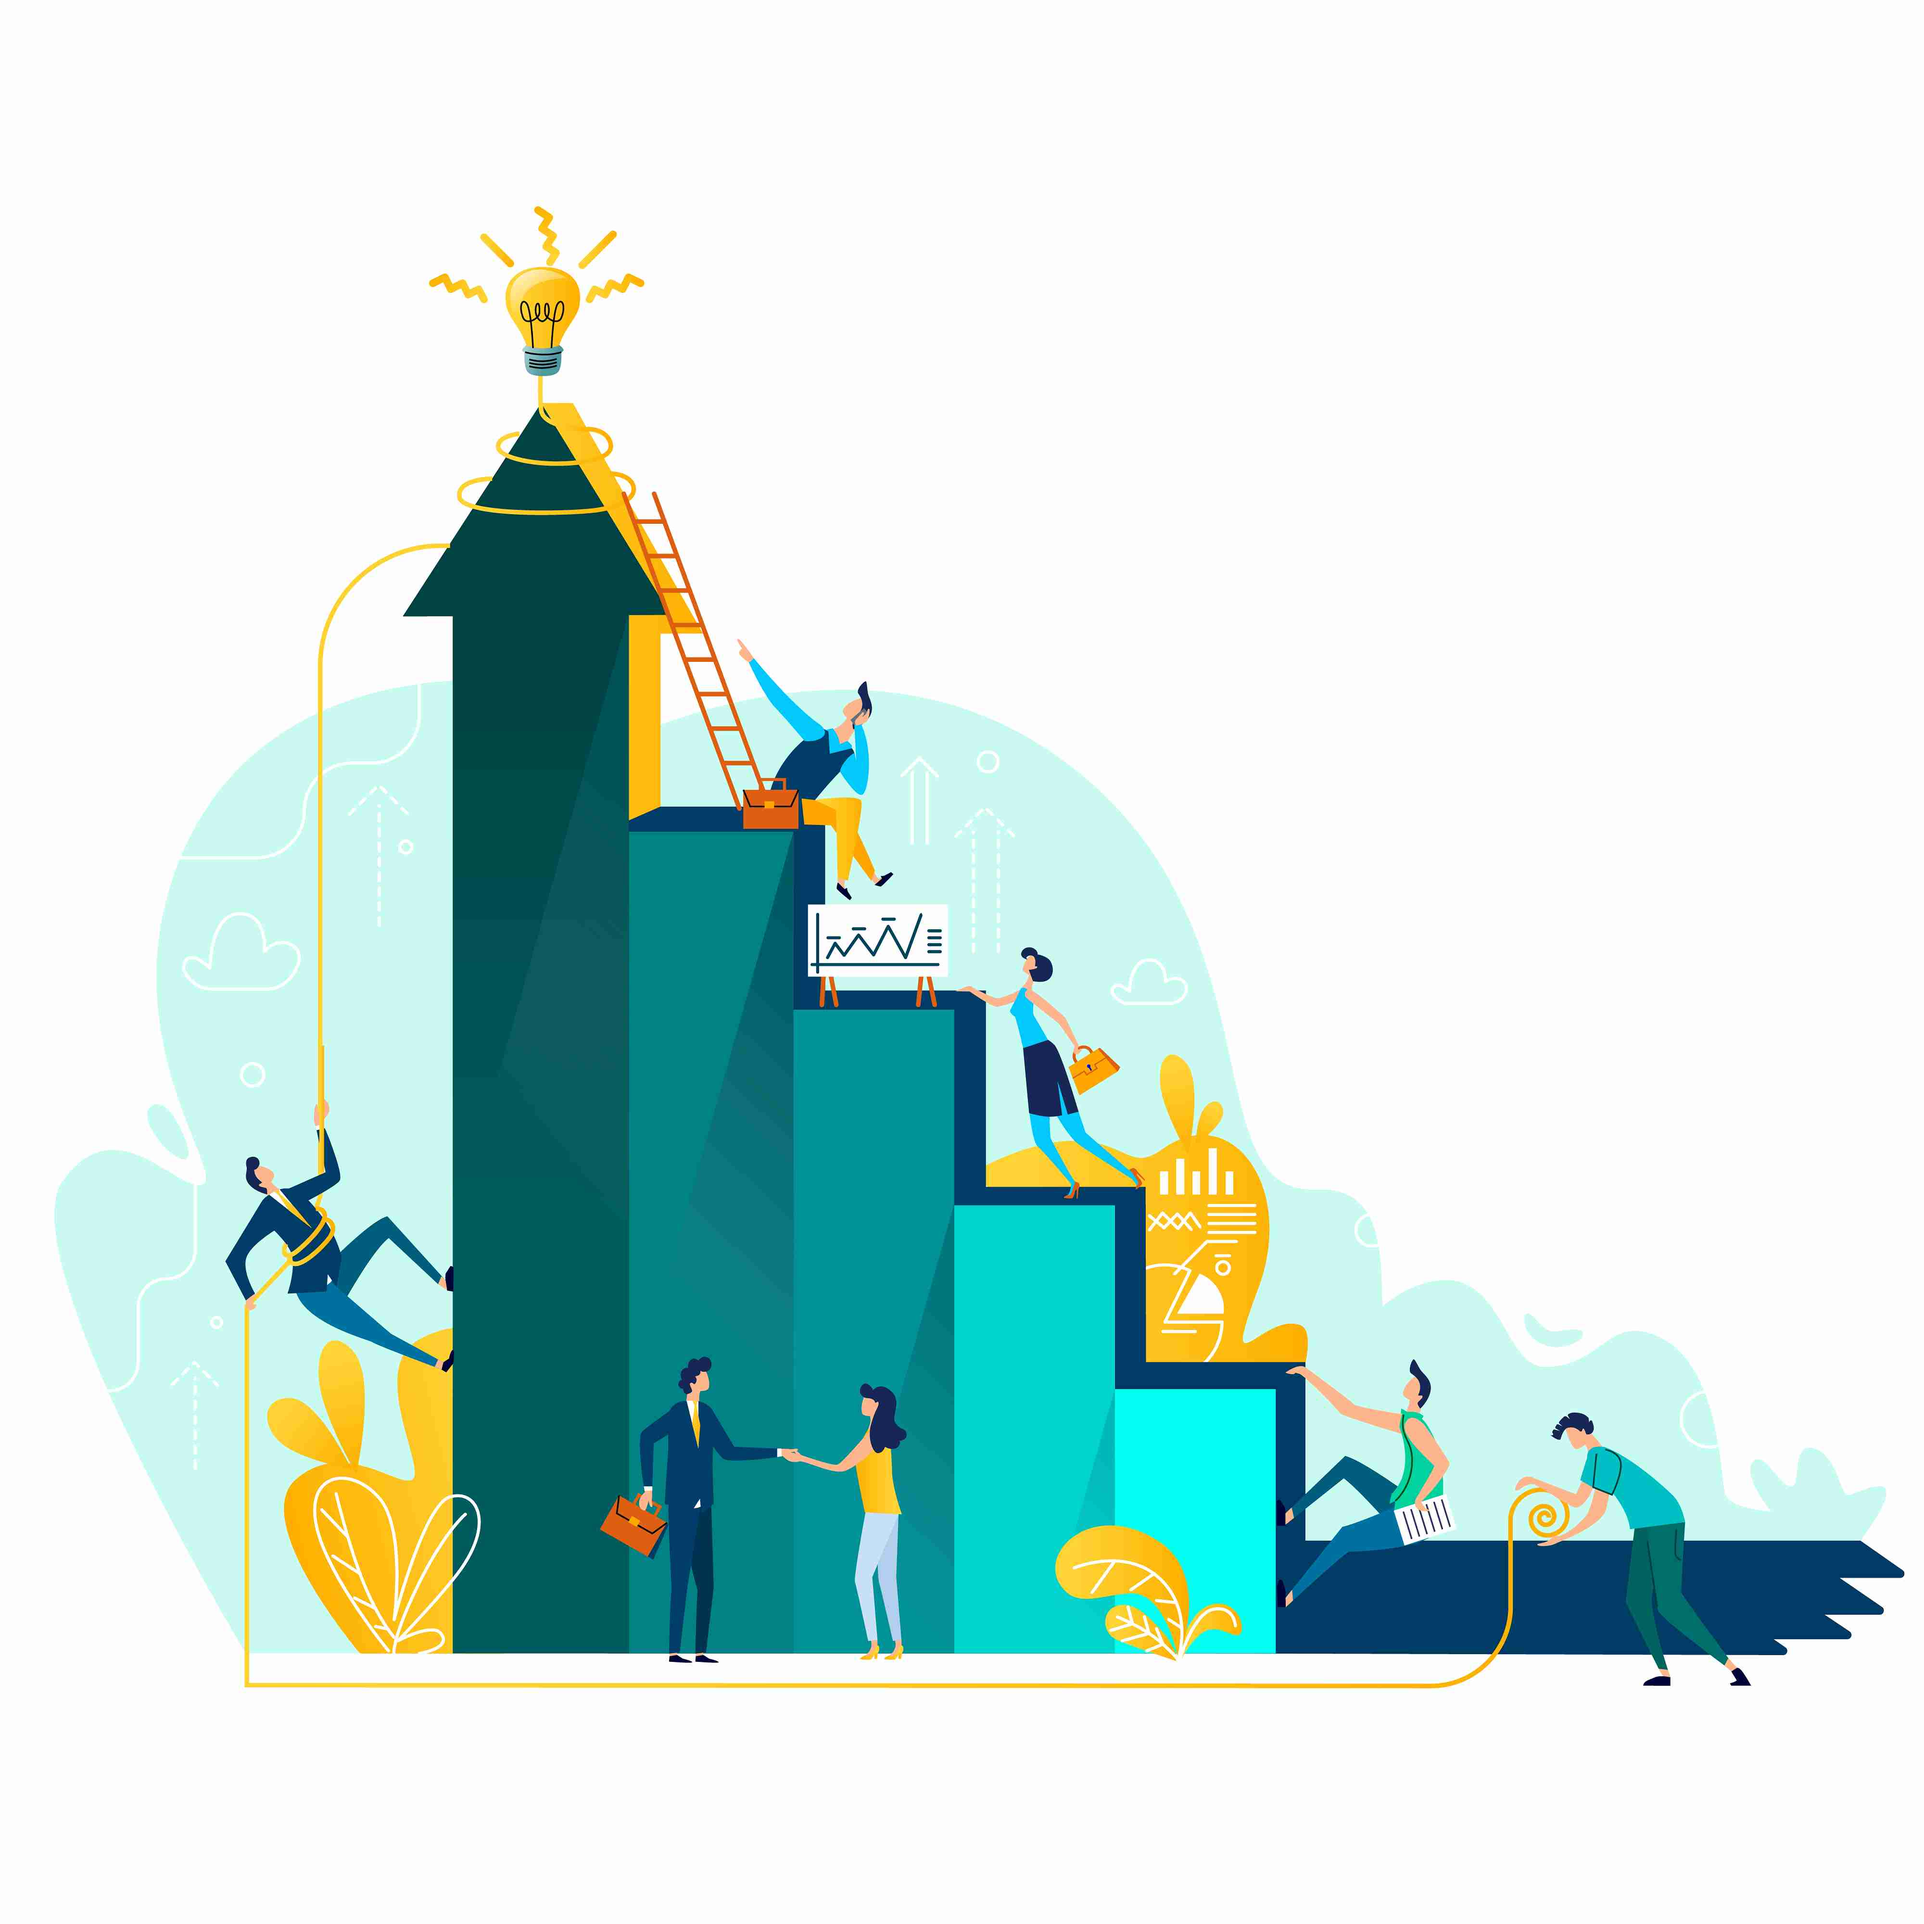
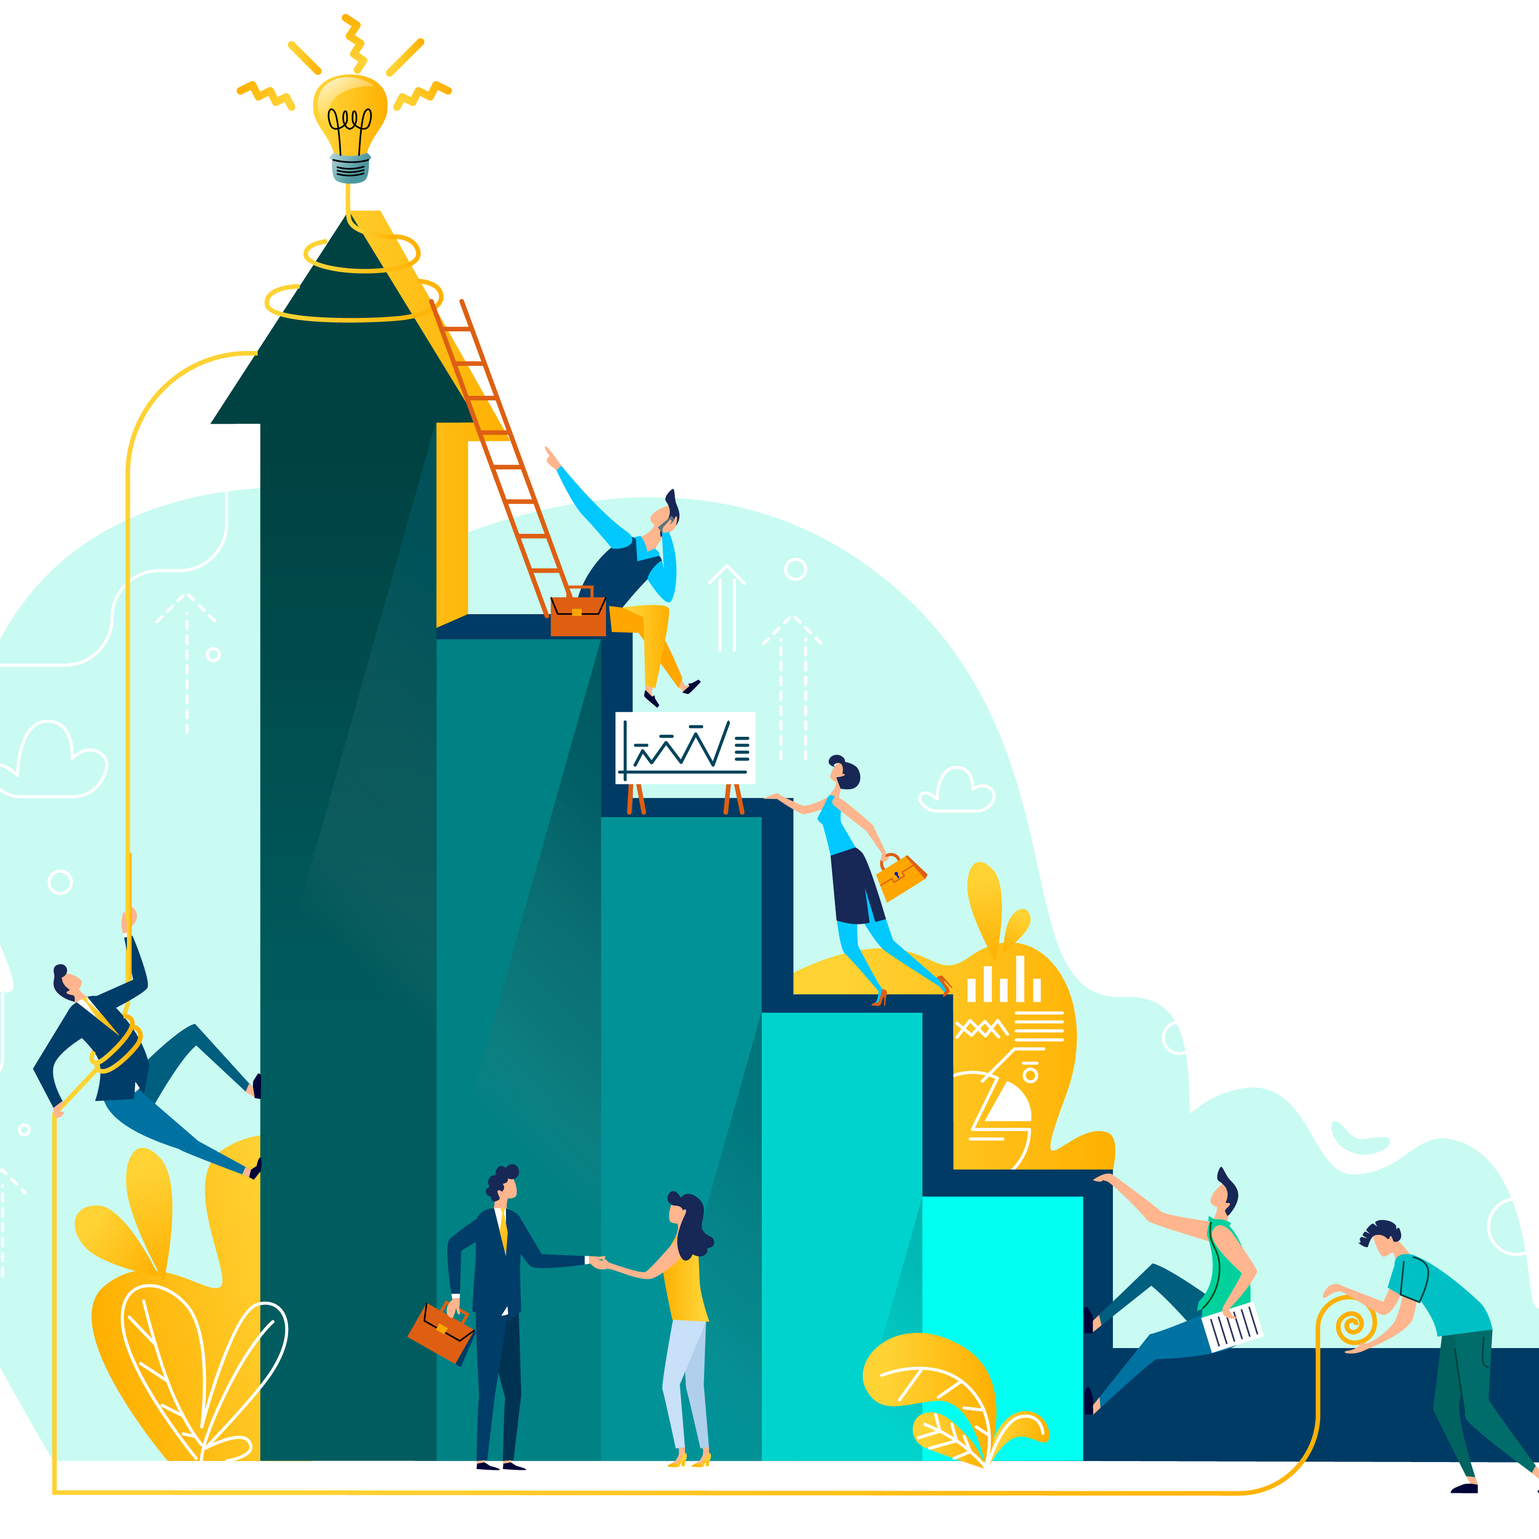
final changes

diff --git a/app/careers/page.tsx b/app/careers/page.tsx
@@ -288,42 +288,41 @@ export default function CareersPage() {
         {/* ================================================= */}
         {/* TEXT + SIDE IMAGE */}
         {/* ================================================= */}
-        <section className="grid lg:grid-cols-2 gap-16 items-center mb-28 mt-16 h-screen container-max dark:bg-[#0d1117]">
-          <div className="space-y-9">
-            <h1 className="text-3xl font-bold text-[#24292f] dark:text-[#f0f6fc]">
-              Discover Your Next Big Opportunity at Codriva
-            </h1>
+        <section className="grid lg:grid-cols-2 gap-12 items-center mb-20 mt-16 container-max dark:bg-[#0d1117]">
+  <div className="space-y-6">
+    <h1 className="text-3xl font-bold text-[#24292f] dark:text-[#f0f6fc]">
+      Discover Your Next Big Opportunity at Codriva
+    </h1>
 
-            <p className="text-lg text-[#656d76] dark:text-[#8b949e]">
-              At Codriva, we’re more than a technology company — we’re a hub of
-              innovation that empowers businesses across industries to grow,
-              scale, and transform. From FinTech and Healthcare to E-Commerce,
-              EdTech, Logistics, and Real Estate, our diverse domain expertise
-              allows our teams to work on impactful projects that shape the
-              future of digital experiences.
-            </p>
-            <p className="text-lg text-[#656d76] dark:text-[#8b949e]">
-              With a strong foundation in custom software development, cloud
-              solutions, UI/UX design, mobile app development, data analytics,
-              and emerging technologies like IoT and AI, we offer a dynamic
-              environment where talent thrives.
-            </p>
-            <p className="text-lg text-[#656d76] dark:text-[#8b949e]">
-              oin us and unlock your potential through continuous learning,
-              cross-functional collaboration, and a culture that values
-              innovation, ownership, and excellence.
-            </p>
-          </div>
+    <p className="text-lg text-[#656d76] dark:text-[#8b949e] leading-relaxed">
+      Codriva is a technology-driven environment where innovation, collaboration,
+      and learning are at the core. We work across industries like FinTech,
+      Healthcare, E-Commerce, EdTech, Logistics, and Real Estate—giving our teams
+      the opportunity to build impactful, real-world digital solutions.
+    </p>
 
-          <div className="relative w-full h-full rounded-xl overflow-hidden shadow-lg">
-            <Image
-              src="/assets/images/4667026_16.jpg"
-              alt="Career Opportunity"
-              fill
-              className="object-cover"
-            />
-          </div>
-        </section>
+    <p className="text-lg text-[#656d76] dark:text-[#8b949e] leading-relaxed">
+      With capabilities spanning custom software development, cloud engineering,
+      UI/UX design, mobile apps, data analytics, IoT, and AI, we empower people
+      to grow alongside cutting-edge technologies.
+    </p>
+
+    <p className="text-lg text-[#656d76] dark:text-[#8b949e] leading-relaxed">
+      Join us to elevate your career through continuous learning, mentorship,
+      and a culture that values ownership, innovation, and excellence.
+    </p>
+  </div>
+
+  <div className="relative w-full h-[520px] rounded-xl overflow-hidden shadow-lg">
+    <Image
+      src="/assets/images/4667026_16.jpg"
+      alt="Career Opportunity"
+      fill
+      className="object-cover"
+    />
+  </div>
+</section>
+
 
         {/* ================================================= */}
         {/* ALTERNATING VALUES SECTION (FULL WIDTH IMAGES) */}
@@ -452,7 +451,7 @@ export default function CareersPage() {
         {/* ================================================= */}
         {/* APPLICATION FORM — UNCHANGED */}
         {/* ================================================= */}
-      <CareersApplicationForm presetPosition={"Other / Not Listed"}/>
+      <CareersApplicationForm />
       </div>
     </div>
   );

diff --git a/components/OpenPositions.tsx b/components/OpenPositions.tsx
@@ -278,7 +278,7 @@ export default function JobsWithFilters() {
     "UI/UX Design",
   ];
 
-  const locationFilters = ["Noida, Sector 62 (WFO)", "Gurgaon", "Remote"];
+  const locationFilters = ["Noida, Sector 62 (WFO)", "Remote"];
   const experienceFilters = [
     { label: "0-2", min: 0, max: 2 },
     { label: "3-5", min: 3, max: 5 },
@@ -436,7 +436,7 @@ export default function JobsWithFilters() {
             Showing {filteredJobs.length} positions
           </p>
 
-          <div className="space-y-6">
+          <div className="space-y-3">
             {filteredJobs.map((job, i) => (
               <button
                 key={i}
@@ -453,9 +453,22 @@ export default function JobsWithFilters() {
             ))}
 
             {filteredJobs.length === 0 && (
-              <p className="text-center text-gray-500 dark:text-gray-400 py-10">
-                No matching roles found.
-              </p>
+              <div className="text-center text-gray-500 dark:text-gray-400 py-10 space-y-3">
+                <p className="text-lg font-medium text-[#24292f] dark:text-[#f0f6fc]">
+                  No openings for that
+                </p>
+
+                <p className="text-sm text-[#656d76] dark:text-[#8b949e]">
+                  Apply anyway and we will contact you if a position opens up.
+                </p>
+
+                <Link
+                  href="#apply"
+                  className="text-blue-600 dark:text-blue-400 font-semibold underline hover:opacity-80 transition"
+                >
+                  Apply anyway
+                </Link>
+              </div>
             )}
           </div>
         </div>
@@ -466,7 +479,7 @@ export default function JobsWithFilters() {
       /* ---------------------------------------- */}
       {selectedJob && (
         <div className="fixed inset-0 bg-black/50 backdrop-blur-sm flex justify-center items-center z-50 p-4">
-          <div className="bg-white dark:bg-[#0d1117] w-full max-w-3xl rounded-2xl p-8 shadow-xl overflow-y-auto max-h-[90vh] relative">
+          <div className="modal-scroll bg-white dark:bg-[#0d1117] w-full max-w-3xl rounded-2xl p-8 shadow-xl overflow-y-auto max-h-[90vh] relative">
             <button
               onClick={() => setSelectedJob(null)}
               className="absolute top-4 right-4 text-gray-500 hover:text-gray-700 dark:hover:text-gray-300"
@@ -486,16 +499,19 @@ export default function JobsWithFilters() {
               Experience: {selectedJob.experience} years
             </p>
 
-            <Link
-  href="#"
-  className="btn-primary inline-block mb-6"
-  onClick={() => {
-    setSelectedJob({ ...selectedJob, apply: true });
-  }}
->
-  Apply Now
-</Link>
+           {/* APPLY BUTTON — hidden when form is open */}
+{!selectedJob.apply && (
+  <button
+    className="btn-primary inline-block mb-6"
+    onClick={() =>
+      setSelectedJob((prev: any) => ({ ...prev, apply: true }))
+    }
+  >
+    Apply Now
+  </button>
+)}
 
+{/* FORM WHEN APPLY IS CLICKED */}
 {selectedJob.apply && (
   <CareersApplicationForm
     presetPosition={selectedJob.title}

diff --git a/components/CareersApplicationForm.tsx b/components/CareersApplicationForm.tsx
@@ -159,13 +159,18 @@ export default function CareersApplicationForm({
     >
       {/* X Button */}
       {onClose && (
-        <button
-          onClick={onClose}
-          className="absolute top-4 right-4 text-gray-500 hover:text-gray-700 dark:text-gray-400 dark:hover:text-gray-300"
-        >
-          ✕
-        </button>
-      )}
+  <button
+    onClick={onClose}
+    className="
+      absolute top-4 right-4
+      text-gray-700 dark:text-gray-200
+      transition
+    "
+  >
+    <span className="text-xl font-bold leading-none">✕</span>
+  </button>
+)}
+
 
       <h2 className="text-3xl font-bold text-center mb-6 text-[#24292f] dark:text-[#f0f6fc]">
         Apply Now

diff --git a/app/globals.css b/app/globals.css
@@ -53,6 +53,13 @@
         font-weight: 600;
         line-height: 1.2;
     }
+    .modal-scroll {
+      scrollbar-width: none; /* Firefox */
+    }
+
+    .modal-scroll::-webkit-scrollbar {
+      display: none; /* Chrome, Safari */
+    }
 
     .font-display {
         font-family: 'Poppins', 'Inter', -apple-system, BlinkMacSystemFont, 'Segoe UI', sans-serif;
